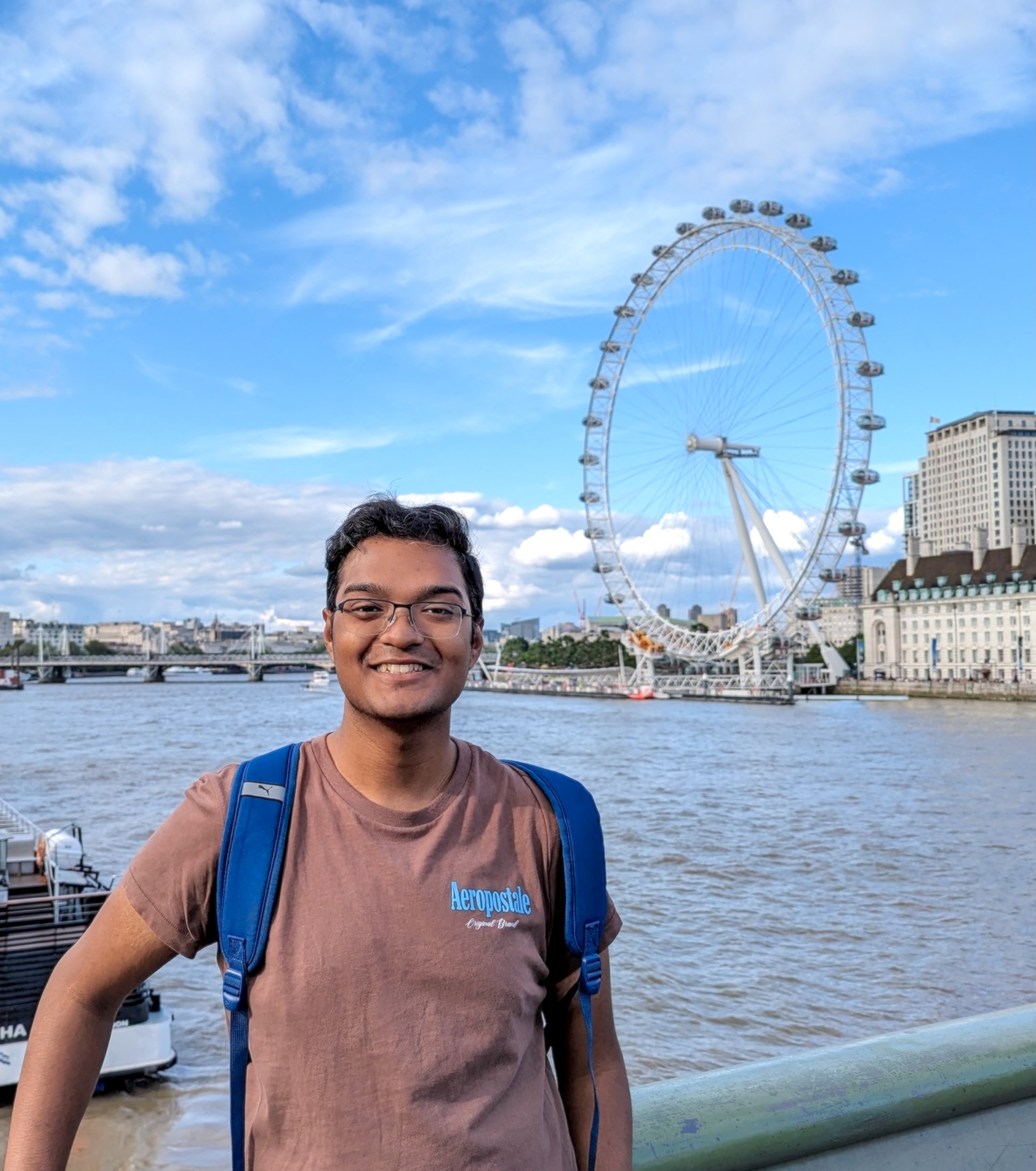
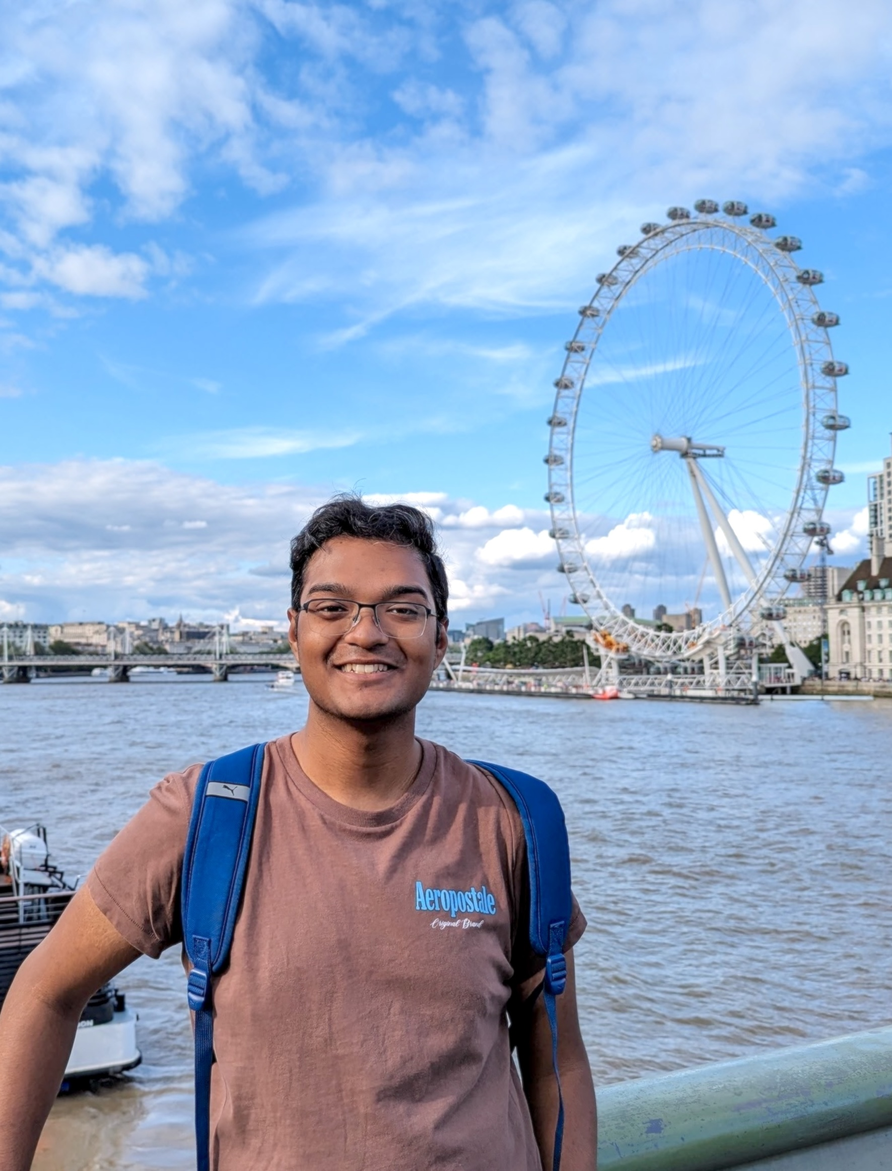
responsive

diff --git a/assets/css/custom.css b/assets/css/custom.css
@@ -1,8 +1,3 @@
-/* Custom avatar styles */
-.author__avatar {
-  width: 260px; /* Adjust this value to your liking */
-}
-
 .author__avatar img {
   border-radius: 0;
   max-width: 100%; /* This will make the image fill the container */
